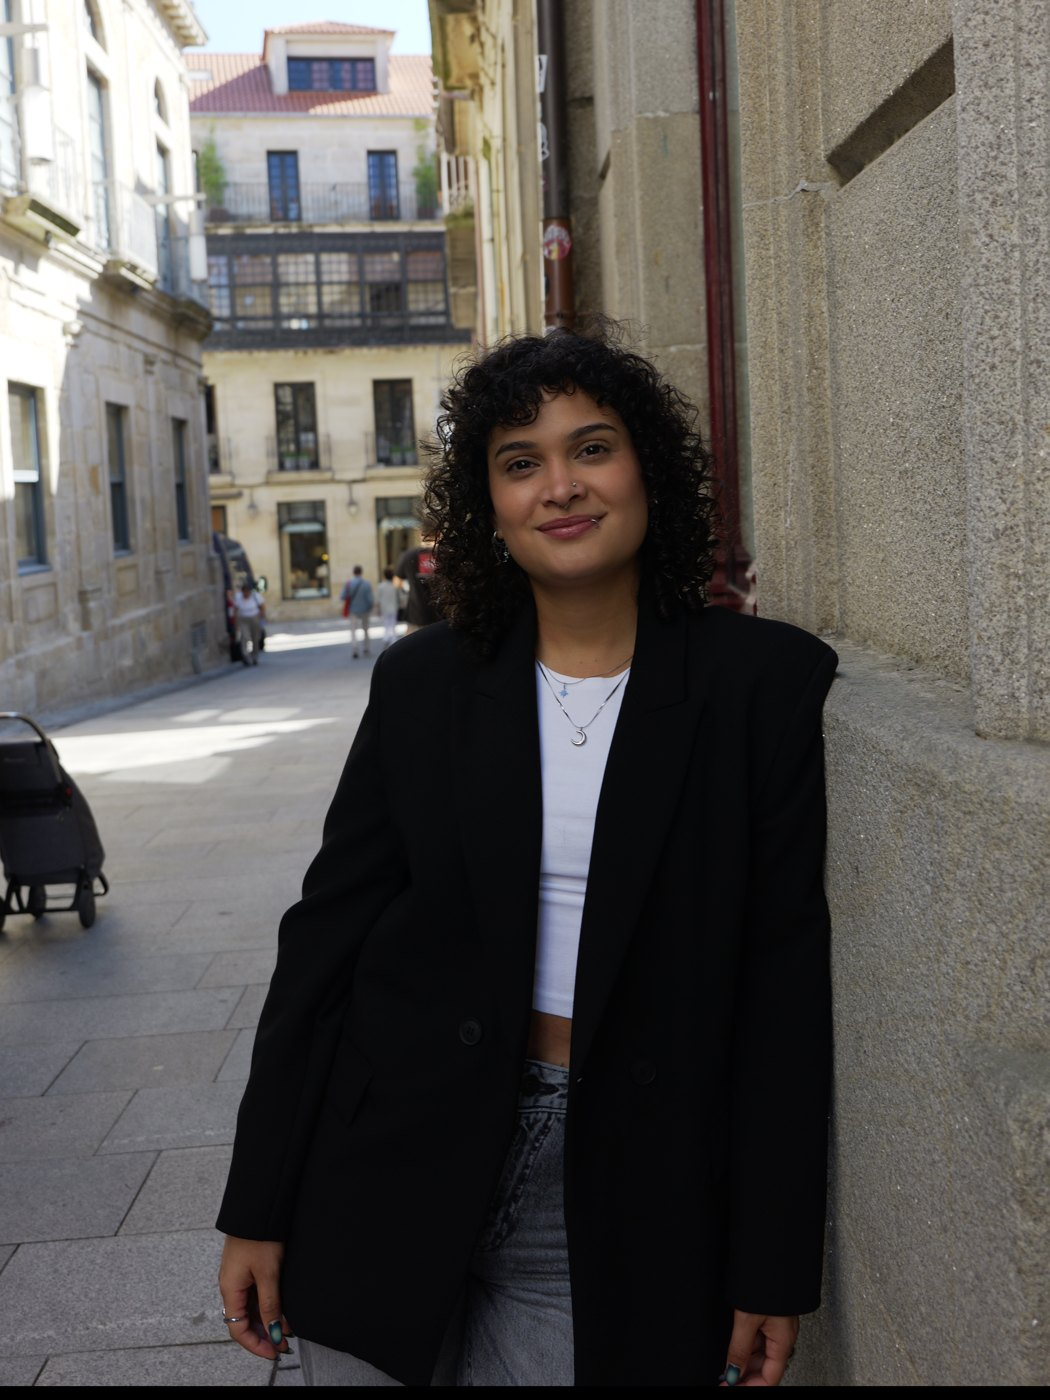
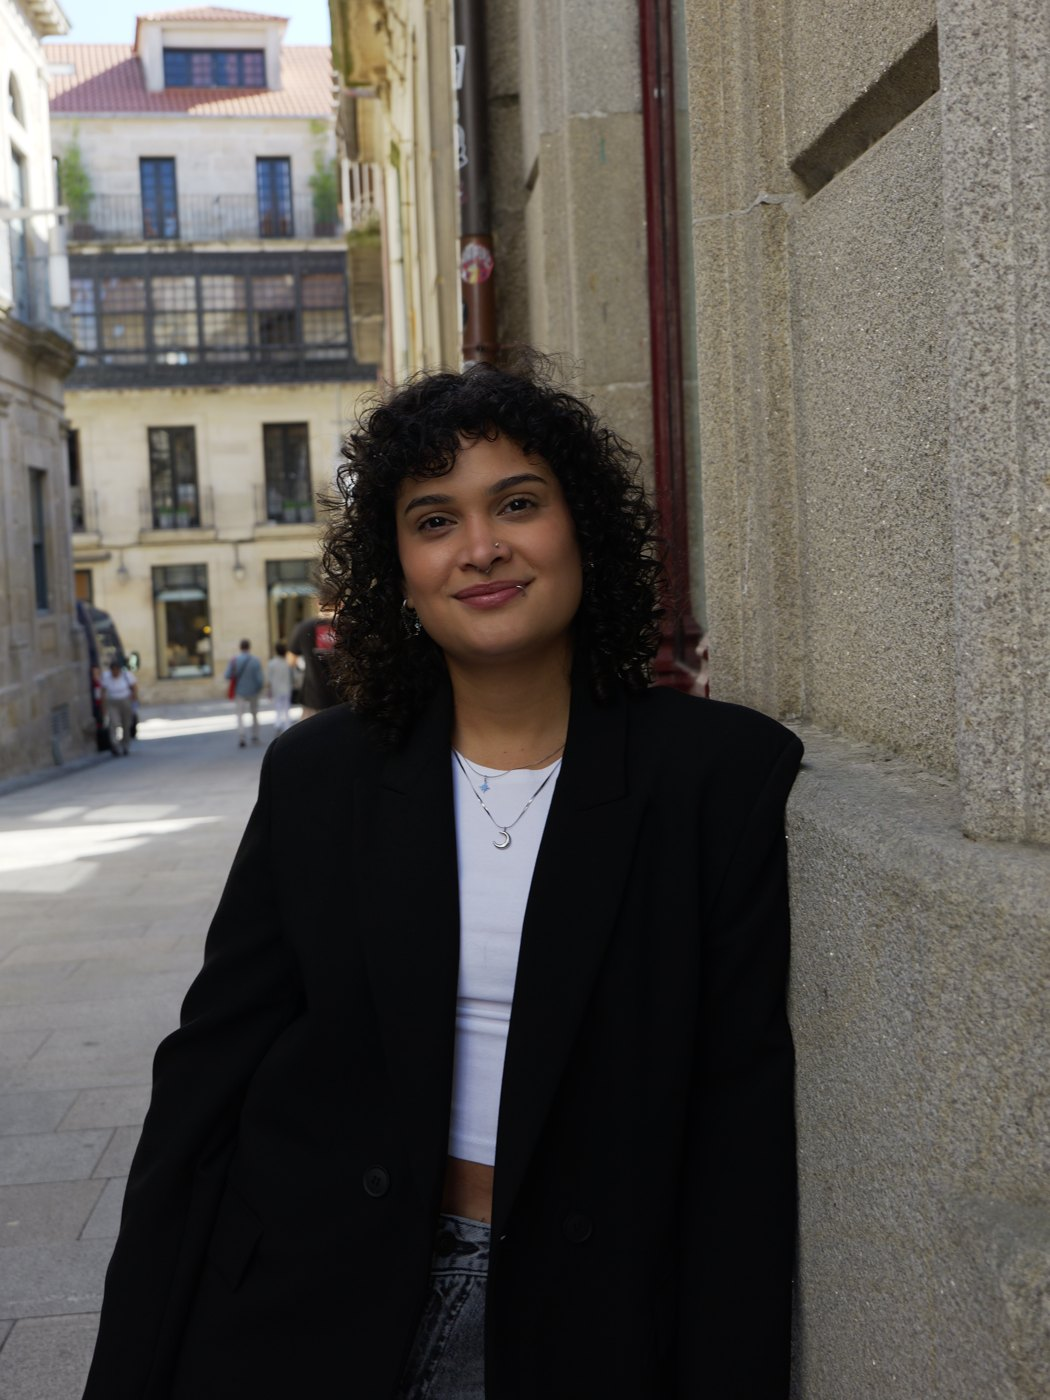
Servicio de actualización a Odoo 19, botón volver arriba y recorte de foto de portada
Claude-Session: https://claude.ai/code/session_01YLa4mbtqWbu346eComd5Wq

diff --git a/src/app/content.js b/src/app/content.js
@@ -145,6 +145,7 @@ export const CONTENT = {
         { title: "Implementación Odoo", for: "quieres ordenar ventas, CRM, inventario o formación en un solo sistema.", list: ["Configuración de módulos", "Migración de datos", "Permisos y flujos por rol", "Formación a tu equipo"], tech: "Odoo 17 · 18 · 19 · Odoo.sh · Odoo Online" },
         { title: "Desarrollo Odoo", for: "Odoo cubre casi todo, pero te falta esa funcionalidad clave para tu negocio.", list: ["Módulos a medida", "Reglas de negocio y validaciones", "Reportes PDF y vistas propias", "Corrección de errores y mejoras"], tech: "Python · OWL · XML · QWeb · PostgreSQL" },
         { title: "Web, e-commerce & SEO", for: "tu web es lenta, no aparece en Google o no está conectada con tu negocio.", list: ["Webs corporativas y tiendas online", "Optimización de velocidad (WPO)", "SEO técnico y analítica", "Mantenimiento evolutivo"], tech: "Odoo Website · WordPress · Next.js · Search Console" },
+        { title: "Actualización a Odoo 19", isNew: true, wide: true, for: "tu empresa sigue en una versión antigua de Odoo y quieres las mejoras de la 19 sin perder datos ni personalizaciones.", list: ["Análisis de tu versión actual y módulos a medida", "Migración de módulos personalizados a Odoo 19", "Migración y verificación de datos", "Pruebas en copia antes del cambio definitivo", "Puesta en marcha y soporte posterior"], tech: "Odoo 15 · 16 · 17 · 18 → 19 · Odoo.sh · Odoo Online · On-premise" },
       ],
       stackTitle: "Stack técnico",
       stackSub: "Las herramientas con las que trabajo a diario.",
@@ -198,6 +199,7 @@ export const CONTENT = {
     },
     portfolio: { title: ["Portafolio", "completo"], lead: "Webs, aplicaciones, integraciones y módulos Odoo que he desarrollado.", back: "Volver al inicio" },
     whatsappAria: "Escríbeme por WhatsApp",
+    topAria: "Volver arriba",
     swipe: "Desliza",
   },
   en: {
@@ -226,6 +228,7 @@ export const CONTENT = {
         { title: "Odoo implementation", for: "you want sales, CRM, inventory or training organised in one system.", list: ["Module configuration", "Data migration", "Role-based permissions and flows", "Team training"], tech: "Odoo 17 · 18 · 19 · Odoo.sh · Odoo Online" },
         { title: "Odoo development", for: "Odoo covers almost everything, but you're missing that one key feature for your business.", list: ["Custom modules", "Business rules and validations", "Custom PDF reports and views", "Bug fixes and improvements"], tech: "Python · OWL · XML · QWeb · PostgreSQL" },
         { title: "Web, e-commerce & SEO", for: "your website is slow, doesn't show up on Google or isn't connected to your business.", list: ["Corporate websites and online stores", "Speed optimisation", "Technical SEO and analytics", "Ongoing maintenance"], tech: "Odoo Website · WordPress · Next.js · Search Console" },
+        { title: "Upgrade to Odoo 19", isNew: true, wide: true, for: "your company is still on an older Odoo version and you want the 19 improvements without losing data or customisations.", list: ["Review of your current version and custom modules", "Migration of custom modules to Odoo 19", "Data migration and verification", "Testing on a copy before the final switch", "Go-live and follow-up support"], tech: "Odoo 15 · 16 · 17 · 18 → 19 · Odoo.sh · Odoo Online · On-premise" },
       ],
       stackTitle: "Tech stack",
       stackSub: "The tools I work with every day.",
@@ -278,6 +281,7 @@ export const CONTENT = {
     },
     portfolio: { title: ["Full", "portfolio"], lead: "Websites, applications, integrations and Odoo modules I've built.", back: "Back to home" },
     whatsappAria: "Message me on WhatsApp",
+    topAria: "Back to top",
     swipe: "Swipe",
   },
 };

diff --git a/src/app/components/site/ui.jsx b/src/app/components/site/ui.jsx
@@ -1,5 +1,5 @@
 "use client";
-import { useEffect } from "react";
+import { useEffect, useState } from "react";
 import Image from "next/image";
 import { useLang } from "../LanguageProvider";
 import { WHATSAPP_URL } from "../../content";
@@ -90,12 +90,29 @@ export function ProjectCard({ p }) {
 
 export function WhatsAppFloat() {
   const { c } = useLang();
+  const [showTop, setShowTop] = useState(false);
+  useEffect(() => {
+    const on = () => setShowTop(window.scrollY > 600);
+    on();
+    window.addEventListener("scroll", on, { passive: true });
+    return () => window.removeEventListener("scroll", on);
+  }, []);
   return (
+    <>
+    <button
+      type="button"
+      className={`to-top${showTop ? " show" : ""}`}
+      aria-label={c.topAria}
+      onClick={() => window.scrollTo({ top: 0, behavior: "smooth" })}
+    >
+      <svg viewBox="0 0 24 24" fill="none" stroke="currentColor" strokeWidth="2" aria-hidden="true"><path d="M12 19V5M6 11l6-6 6 6" /></svg>
+    </button>
     <a className="wa" href={WHATSAPP_URL} target="_blank" rel="noopener noreferrer" aria-label={c.whatsappAria}>
       <svg viewBox="0 0 24 24" fill="currentColor" aria-hidden="true">
         <path d="M12.04 2C6.58 2 2.13 6.45 2.13 11.91c0 1.75.46 3.45 1.32 4.95L2.05 22l5.25-1.38a9.9 9.9 0 0 0 4.74 1.21h.01c5.46 0 9.91-4.45 9.91-9.91A9.86 9.86 0 0 0 12.04 2Zm5.8 14.05c-.24.68-1.42 1.3-1.96 1.35-.5.05-.97.23-3.28-.68-2.77-1.09-4.52-3.93-4.66-4.11-.13-.18-1.1-1.46-1.1-2.79s.7-1.98.95-2.25c.24-.27.53-.34.71-.34l.51.01c.16 0 .38-.06.6.46.23.54.77 1.87.84 2 .07.14.11.3.02.48-.09.18-.13.3-.27.46l-.4.47c-.13.13-.27.28-.12.55.16.27.7 1.15 1.5 1.86 1.03.92 1.9 1.2 2.17 1.34.27.13.43.11.59-.07.16-.18.68-.79.86-1.06.18-.27.36-.23.6-.14.25.09 1.57.74 1.84.88.27.13.45.2.52.31.07.11.07.66-.17 1.3Z" />
       </svg>
     </a>
+    </>
   );
 }
 

diff --git a/src/app/globals.css b/src/app/globals.css
@@ -599,3 +599,14 @@ em.accent{font-style:normal;color:var(--purple)}
   .card-head{gap:6px}
   .card h3{font-size:20px}
 }
+
+/* botón volver arriba */
+.to-top{position:fixed;right:24px;bottom:calc(86px + env(safe-area-inset-bottom,0px));z-index:50;width:46px;height:46px;border:1px solid var(--ink);background:var(--paper);color:var(--ink);display:grid;place-items:center;cursor:pointer;opacity:0;pointer-events:none;transform:translateY(8px);transition:opacity .3s,transform .3s,background .3s,color .3s}
+.to-top.show{opacity:1;pointer-events:auto;transform:none}
+.to-top:hover{background:var(--ink);color:var(--paper)}
+.to-top svg{width:20px;height:20px}
+/* servicio ancho (actualización Odoo 19) */
+@media (min-width:701px){
+  .card.wide{grid-column:1 / -1}
+  .card.wide .card-body ul{display:grid;grid-template-columns:repeat(2,minmax(0,1fr));column-gap:32px}
+}

diff --git a/src/app/components/site/Home.jsx b/src/app/components/site/Home.jsx
@@ -75,7 +75,7 @@ function Services({ c }) {
           {s.items.map((it, i) => {
             const open = openIdx === i;
             return (
-              <article key={it.title} className={`card reveal${it.featured ? " feat" : ""}${open ? " open" : ""}`}>
+              <article key={it.title} className={`card reveal${it.featured ? " feat" : ""}${it.wide ? " wide" : ""}${open ? " open" : ""}`}>
                 <button type="button" className="card-head" aria-expanded={open} onClick={() => setOpenIdx(open ? -1 : i)}>
                   <span className="top">
                     <span className="num">{String(i + 1).padStart(2, "0")}</span>
